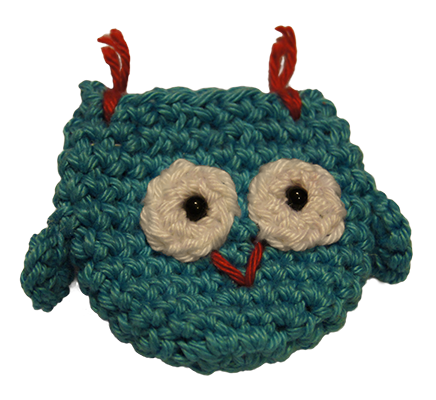
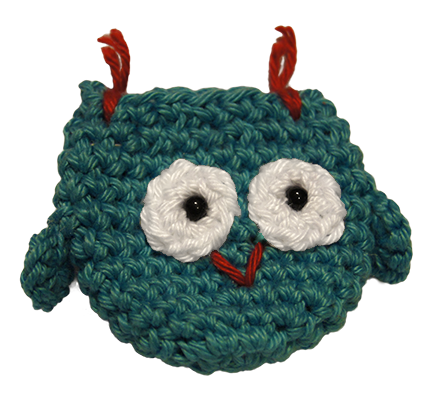
Made page more dynamic Brightened and desaturated eyes to match generated white

Changed region(s): [[0.2982, 0.39, 0.805, 0.66]]

diff --git a/okul.html b/okul.html
@@ -28,12 +28,12 @@
 
 	function loadOkul() {
 		var tOkulCanvas = document.getElementById("okulCanvas");
-		var tOkulPanel = document.getElementById("okulPanel");
-		var tClickOverlay = document.getElementById("clickOverlay");
+		//var tOkulPanel = document.getElementById("okulPanel");
+		//var tClickOverlay = document.getElementById("clickOverlay");
 		tOkulCanvas.width = okulW;
 		tOkulCanvas.height = okulH;
-		tOkulPanel.style.width = okulW;
-		tOkulPanel.style.height = okulH;
+		//tOkulPanel.style.width = okulW;
+		//tOkulPanel.style.height = okulH;
 		//tClickOverlay.width = okulW;
 		//tClickOverlay.height = okulH;
 		
@@ -212,24 +212,19 @@
 </style>
 
 <body onLoad="loadOkul()" id="root">
-	<div id="okulPanel" style="position: relative;">
-		<canvas id="okulCanvas" width="300" height="300" style="position: absolute;"></canvas>
-		<div class="okulPart" onclick="toggleColorMenu(40,76,107);" style="z-index:15;left:14.7%;width:68.3%;top:19.5%;height:25.00000%">  </div>
-		<div class="okulPart" onclick="toggleColorMenu(80,164,152);" style="z-index:10;left:14.2%;width:71.3%;top:41.5%;height:28.5000%">  </div>
-		<div class="okulPart" onclick="toggleColorMenu(120,268,111);" style="z-index:10;left:17.8%;width:67.0%;top:70.0%;height:25.000%">  </div>
-		<div class="okulPart" onclick="toggleColorMenu(200,160,160);" style="z-index:20;left:83.7%;width:11.9%;top:44.0%;height:29.0%">  </div>
-		<div class="okulPart" onclick="toggleColorMenu(200,160,160);" style="z-index:20;left:3.40%;width:14.2%;top:53.0%;height:26.500%">  </div>
-		<div class="okulPart" onclick="toggleColorMenu(160,19,113);" style="z-index:20;left:21.6%;width:8.94%;top:6.00%;height:25.250%">  </div>
-		<div class="okulPart" onclick="toggleColorMenu(160,19,113);" style="z-index:20;left:60.6%;width:9.86%;top:5.25%;height:25.000%">  </div>
-		<div class="okulPart" onclick="toggleColorMenu(240,233,68);" style="z-index:25;left:47.0%;width:14.9%;top:59.75%;height:12.75%">  </div>
+	<div id="okulPanel" style="position: relative; width: 40%">
+		<canvas id="okulCanvas" width="300" height="300" style="position: relative; width: 100%;"></canvas>
+
+		<div class="okulPart" onclick="toggleColorMenu(40,76,107);" style="z-index:15;left:14.7%;width:68.3%;top:19.5%;height:25.00000%"></div>
+		<div class="okulPart" onclick="toggleColorMenu(80,164,152);" style="z-index:10;left:14.2%;width:71.3%;top:41.5%;height:28.5000%"></div>
+		<div class="okulPart" onclick="toggleColorMenu(120,268,111);" style="z-index:10;left:17.8%;width:67.0%;top:70.0%;height:25.000%"></div>
+		<div class="okulPart" onclick="toggleColorMenu(200,160,160);" style="z-index:20;left:83.7%;width:11.9%;top:43.0%;height:30.00%"></div>
+		<div class="okulPart" onclick="toggleColorMenu(200,160,160);" style="z-index:20;left:3.40%;width:14.2%;top:48.0%;height:31.500%"></div>
+		<div class="okulPart" onclick="toggleColorMenu(160,19,113);" style="z-index:20;left:21.6%;width:8.94%;top:6.00%;height:25.250%"></div>
+		<div class="okulPart" onclick="toggleColorMenu(160,19,113);" style="z-index:20;left:60.6%;width:9.86%;top:5.25%;height:25.000%"></div>
+		<div class="okulPart" onclick="toggleColorMenu(240,233,68);" style="z-index:25;left:47.0%;width:14.9%;top:59.75%;height:12.75%"></div>
 		
-		<!--<img src="transp.png" id="clickOverlay" usemap="#okulMap" width="300" height="300" style="position: absolute;">
-		<map name="okulMap">
-			<area href="javascript:toggleColorMenu(40,76,107)" shape="poly" coords="57,182,366,167,319,92,84,81">
-			<area href="javascript:toggleColorMenu(80,164,152)" shape="poly" coords="64,179,83,276,374,274,364,172">
-			<area href="javascript:toggleColorMenu(120,268,111)" shape="poly" coords="77,273,121,338,200,374,307,348,356,312,367,261">
-		</map>-->
-		<div id="colorMenu" class="hide" style="position:absolute; left: 436px; width: 200px; font-size: 0px; text-align: center;">
+		<div id="colorMenu" class="hide" style="position:absolute; left: 100%; top:0px; width: 50%; font-size: 0px; text-align: center;">
 			<div class="cB" title="Valge" id="def-white" onclick="changeButton(this); updateOkul(0,0,-1,1,0.55);" style="background-color: #ffffff"></div>
 			<div class="cB" title="Punane" id="def-red" onclick="changeButton(this); updateOkul(0, 1.1, 0.43, 1.19, 0.07);" style="background-color: #E30000"></div>
 			<div class="cB" title="Helesinine" onclick="changeButton(this); updateOkul(185,1.95,0.2,1.19,0.08);" style="background-color: #4dffff"></div>
